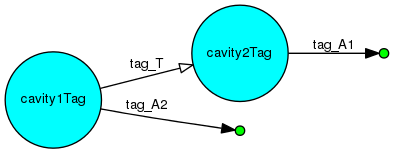
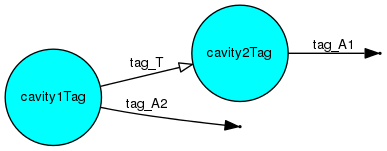
user: Ian David Flintoft <ian.flintoft@york.ac.uk> branch 'default' changed doc/SolverUserManual.md changed doc/ToDo.md changed doc/figures/AbsorberEMT.png changed doc/figures/CavityEMT.png changed doc/figures/CompactedEMT_1.png changed doc/figures/CompactedEMT_2.png changed doc/figures/ExampleEMT.p
Make reference node in EMT implicit.

diff --git a/pwbs/pwbsDrawEMT.m b/pwbs/pwbsDrawEMT.m
@@ -56,12 +56,12 @@ function pwbsDrawEMT( pwbm )
     if( strcmp( node1 , 'REF' ) )
       node1 = sprintf( 'REF%d' , nextRef );
       nextRef = nextRef + 1;
-      fprintf( fp , '"%s" [shape=circle , label ="", width=0.1 , height=0.1, regular=1, style=filled , fillcolor=green ];\n' , node1 );
+      fprintf( fp , '"%s" [shape=point , label ="", width=0.02 , height=0.02, regular=1, style=filled , fillcolor=black ];\n' , node1 );
     end % if
     if( strcmp( node2 , 'REF' ) )
       node2 = sprintf( 'REF%d' , nextRef );
       nextRef = nextRef + 1;
-      fprintf( fp , '"%s" [shape=circle , label ="", width=0.1 , height=0.1, regular=1, style=filled , fillcolor=green ];\n' , node2 );
+      fprintf( fp , '"%s" [shape=point , label ="", width=0.02 , height=0.02, regular=1, style=filled , fillcolor=black ];\n' , node2 );
     end % if   
     switch( pwbm.edges{edgeIdx,4} )
     case 'Antenna'

diff --git a/tutorial/NRC.m b/tutorial/NRC.m
@@ -36,14 +36,13 @@
       pwbm = pwbsAddSource( pwbm , 'STx', 'Antenna' , 'Tx' , { 1 } );
       pwbm = pwbsAddAbsorber( pwbm , 'AB1', 'RC2' , 1.0 , 'AE' , { 0.01 , 1.0 } );
       
-      % Setup the model and visualise the EMT.
-      pwbm = pwbsSetupModel( pwbm );
+      % Visualise the EMT.
       pwbsDrawEMT( pwbm );    
       
       % Solve the model.
       pwbm = pwbsSolveModel( pwbm );
       
-      % Expoer all the results to ASCII files.
+      % Export all the results to ASCII files.
       pwbsExportAll( pwbm );
      
       % Get the power density in each chamber.

diff --git a/examples/01_UoY_NRC/pwbsTest4.m b/examples/01_UoY_NRC/pwbsTest4.m
@@ -32,7 +32,6 @@ pwbm = pwbsAddAntenna( pwbm , 'Rx_NRC' , 'NRC' , 1 , 'Matched' , { 50.0 } );
 pwbm = pwbsAddSource( pwbm , 'S1' , 'Antenna' , 'Tx' , { 1 } );
 % pwbm = pwbsAddAbsorber( pwbm , 'Cube110' , 'RC' , 'Sphere' , { [ 76e-3 ] , eps_r_LS22 , sigma_LS22 } );
 
-pwbm = pwbsSetupModel( pwbm );
 pwbm = pwbsSolveModel( pwbm );
 
 pwbsExportAll( pwbm );

diff --git a/doc/SolverUserManual.md b/doc/SolverUserManual.md
@@ -145,7 +145,6 @@ The elements of the PWB model are represented by:
 
 object                   | representation
 :------------------------|:--------------------------------------------------------------------------
-reference node           | small green circle without a label
 cavity                   | aqua circle with cavity name inside 
 cavity with scatterer(s) | aqua circle with cavity name inside inside another circle
 external environment     | coral circle with label 'EXT' inside
@@ -153,8 +152,6 @@ absorber/antenna         | named edge with filled arrow in direction of power ab
 aperture                 | named edge with unfilled arrow in direction of net power flow
 source (power )          | named edge with filled arrow and circle in direction of source power
 source (power density)   | named edge with unfilled arrow and circle in direction of power absorption
-
-The reference node is the ultimate source/sink of all power in the model.
 
 ## Solving the model
 

diff --git a/doc/ToDo.md b/doc/ToDo.md
@@ -6,10 +6,6 @@
 * Decide whether to stay with conventional of putting factor of 1/2 from wall
   shadowing into TCS. If so, write detailed note for user manual.
 
-* Should reference nodes be hidden in the documentation and EMT - replace
-  with small black dots or make invisible? They are not really relevant to 
-  using the solver.
-
 * Make third party tools required for Mie Series discovered at run time and 
   error message if not found. Add instruction for obtaining and installing.
   
